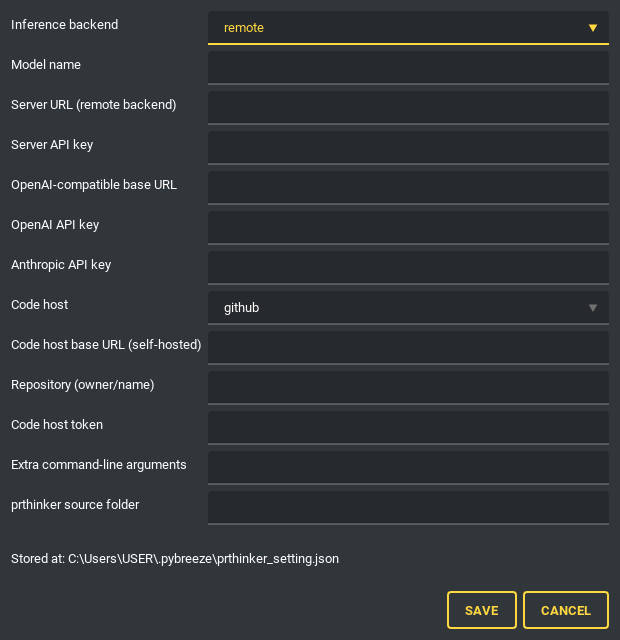
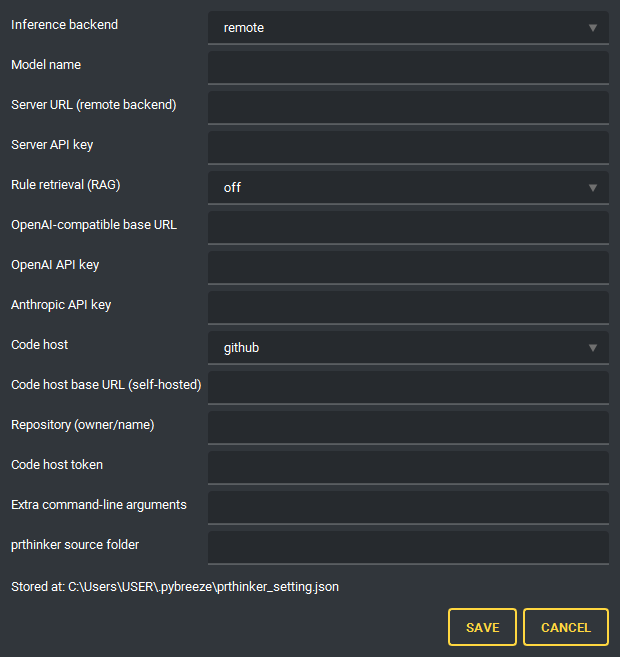
Turn prthinker's rule retrieval off unless the server is asked
prthinker retrieves rules locally by default, from an index that ships only with its repository, so every review from the prthinker PyBreeze installs stopped on ModuleNotFoundError. A rag setting, off or remote, is now always sent. With it the first real review ran end to end from PyBreeze's own menus, which closes progress.md #1.

diff --git a/pybreeze/extend/prthinker_extend/prthinker_setting.py b/pybreeze/extend/prthinker_extend/prthinker_setting.py
@@ -41,6 +41,20 @@ BACKENDS = (
 # 可選的程式碼託管平台 / The forges on offer
 PLATFORMS = ("github", "gitlab", "gitea")
 
+# 規則檢索（RAG）的做法：關掉，或交給伺服器的 /rag。prthinker 的本機索引只跟著它的
+# 原始碼庫，不在安裝的套件裡，所以這裡裝的 prthinker 沒辦法在本機檢索。
+# How rules are retrieved (RAG): not at all, or through the server's /rag.
+# prthinker's local index ships with its repository and not with its package, so
+# the prthinker installed from here cannot retrieve locally.
+RAG_MODES = ("off", "remote")
+
+# 每種做法交給子行程的環境變數；認不得的值一律當作關掉
+# The variables each way is given through; an unknown value counts as off
+RAG_ENVIRONMENT = {
+    "off": {"PRTHINKER_RAG_ENABLED": "false"},
+    "remote": {"PRTHINKER_REMOTE_RAG": "true"},
+}
+
 # 每個設定項對應的環境變數 / The environment variable each setting is given through
 SETTING_ENVIRONMENT = {
     "backend": "PRTHINKER_BACKEND",
@@ -73,6 +87,7 @@ DEFAULT_SETTING: Dict[str, str] = {
     "platform_base_url": "",
     "repository": "",
     "platform_token": "",
+    "rag": "off",
     "extra_arguments": "",
     "source_path": "",
 }
@@ -148,17 +163,24 @@ def environment_for(setting: Dict[str, str]) -> Dict[str, str]:
     把設定變成 prthinker 認得的環境變數
     Turn the settings into the environment variables prthinker reads.
 
-    空白的項目不放進去，prthinker 才用得到它自己的預設值。
-    A blank setting is left out, so prthinker keeps its own default for it.
+    空白的項目不放進去，prthinker 才用得到它自己的預設值。規則檢索例外：prthinker 預設
+    在本機檢索，而這裡裝的 prthinker 做不到，所以一定會明講要關掉或交給伺服器。
+    A blank setting is left out, so prthinker keeps its own default for it. Rule
+    retrieval is the exception: prthinker's default is to retrieve locally, which
+    the prthinker installed from here cannot do, so it is always told to go
+    without or to ask the server.
 
     :param setting: 目前的設定 / the settings in use
     :return: 要加進子行程環境的變數 / the variables to add to the child's environment
     """
-    return {
+    environment = {
         name: setting[key].strip()
         for key, name in SETTING_ENVIRONMENT.items()
         if setting.get(key, "").strip()
     }
+    rag_mode = setting.get("rag", "")
+    environment.update(RAG_ENVIRONMENT.get(rag_mode, RAG_ENVIRONMENT["off"]))
+    return environment
 
 
 def extra_arguments(setting: Dict[str, str]) -> List[str]:

diff --git a/pybreeze/pybreeze_ui/dialog/prthinker_setting_dialog.py b/pybreeze/pybreeze_ui/dialog/prthinker_setting_dialog.py
@@ -20,12 +20,15 @@ from PySide6.QtWidgets import (
 from je_editor import language_wrapper
 
 from pybreeze.extend.prthinker_extend.prthinker_setting import (
-    BACKENDS, PLATFORMS, load_setting, save_setting, setting_path
+    BACKENDS, PLATFORMS, RAG_MODES, load_setting, save_setting, setting_path
 )
 
 # 以圓點顯示的欄位 / The fields shown as dots
 SECRET_FIELDS = (
     "remote_api_key", "openai_api_key", "anthropic_api_key", "platform_token")
+
+# 從清單裡選的欄位，以及各自的選項 / The fields picked from a list, and each one's choices
+CHOICE_FIELDS = {"backend": BACKENDS, "rag": RAG_MODES, "platform": PLATFORMS}
 
 # 表格上的欄位順序，以及每一欄的說明用哪個語言鍵
 # The fields in the order they are shown, and the language key labelling each
@@ -34,6 +37,7 @@ FIELDS = (
     ("model_name", "prthinker_setting_model_name_label"),
     ("remote_url", "prthinker_setting_remote_url_label"),
     ("remote_api_key", "prthinker_setting_remote_api_key_label"),
+    ("rag", "prthinker_setting_rag_label"),
     ("openai_base_url", "prthinker_setting_openai_base_url_label"),
     ("openai_api_key", "prthinker_setting_openai_api_key_label"),
     ("anthropic_api_key", "prthinker_setting_anthropic_api_key_label"),
@@ -78,10 +82,8 @@ class PRThinkerSettingDialog(QDialog):
 
     def _editor_for(self, key: str):
         """依欄位種類給對應的輸入元件 / The right kind of editor for a field."""
-        if key == "backend":
-            editor = self._chooser(BACKENDS, self.setting.get(key, ""))
-        elif key == "platform":
-            editor = self._chooser(PLATFORMS, self.setting.get(key, ""))
+        if key in CHOICE_FIELDS:
+            editor = self._chooser(CHOICE_FIELDS[key], self.setting.get(key, ""))
         else:
             editor = QLineEdit(self.setting.get(key, ""))
             if key in SECRET_FIELDS:

diff --git a/test/test_utils/test_prthinker_setting.py b/test/test_utils/test_prthinker_setting.py
@@ -8,7 +8,7 @@ import pytest
 
 from pybreeze.extend.prthinker_extend import prthinker_setting
 from pybreeze.extend.prthinker_extend.prthinker_setting import (
-    DEFAULT_SETTING, INSTALL_EXTRAS, SECRET_SETTINGS, SETTING_ENVIRONMENT,
+    DEFAULT_SETTING, INSTALL_EXTRAS, RAG_MODES, SECRET_SETTINGS, SETTING_ENVIRONMENT,
     environment_for, extra_arguments, install_target, load_setting, loggable,
     review_file_arguments, review_pr_arguments, save_setting, split_arguments
 )
@@ -69,6 +69,29 @@ class TestTheEnvironmentGivenToTheChild:
     def test_every_setting_that_travels_has_a_variable(self):
         # Anything in the table has to name a setting that actually exists.
         assert set(SETTING_ENVIRONMENT) <= set(DEFAULT_SETTING)
+
+
+class TestRuleRetrieval:
+    # prthinker's local RAG index ships with its repository, not its package, so
+    # the prthinker PyBreeze installs can only do without it or ask the server.
+    def test_the_choices_are_off_and_the_server(self):
+        assert RAG_MODES == ("off", "remote")
+
+    def test_it_starts_off(self):
+        environment = environment_for(DEFAULT_SETTING)
+        assert environment["PRTHINKER_RAG_ENABLED"] == "false"
+        assert "PRTHINKER_REMOTE_RAG" not in environment
+
+    def test_remote_asks_the_server(self):
+        environment = environment_for({**DEFAULT_SETTING, "rag": "remote"})
+        assert environment["PRTHINKER_REMOTE_RAG"] == "true"
+        assert "PRTHINKER_RAG_ENABLED" not in environment
+
+    @pytest.mark.parametrize("stored", ["local", "", "REMOTE "])
+    def test_anything_else_counts_as_off(self, stored):
+        environment = environment_for({**DEFAULT_SETTING, "rag": stored})
+        assert environment["PRTHINKER_RAG_ENABLED"] == "false"
+        assert "PRTHINKER_REMOTE_RAG" not in environment
 
 
 class TestTheCommandsAreBuilt:

diff --git a/test/test_utils/test_prthinker_setting_dialog.py b/test/test_utils/test_prthinker_setting_dialog.py
@@ -11,7 +11,7 @@ from PySide6.QtWidgets import QApplication, QComboBox, QDialog, QLineEdit
 
 from pybreeze.extend.prthinker_extend import prthinker_setting
 from pybreeze.extend.prthinker_extend.prthinker_setting import (
-    BACKENDS, DEFAULT_SETTING, PLATFORMS, SETTING_FILE_NAME, save_setting
+    BACKENDS, DEFAULT_SETTING, PLATFORMS, RAG_MODES, SETTING_FILE_NAME, save_setting
 )
 from pybreeze.extend_multi_language.update_language_dict import update_language_dict
 from pybreeze.pybreeze_ui.dialog import prthinker_setting_dialog
@@ -64,6 +64,11 @@ class TestTheFormItBuilds:
     def test_the_platform_is_chosen_from_the_supported_list(self, dialog):
         editor = dialog.editors["platform"]
         assert [editor.itemText(i) for i in range(editor.count())] == list(PLATFORMS)
+
+    def test_rule_retrieval_is_chosen_from_the_supported_list(self, dialog):
+        editor = dialog.editors["rag"]
+        assert [editor.itemText(i) for i in range(editor.count())] == list(RAG_MODES)
+        assert editor.currentText() == DEFAULT_SETTING["rag"]
 
     def test_a_stored_choice_comes_back_selected(self, app, data_dir):
         save_setting({**DEFAULT_SETTING, "backend": "anthropic", "platform": "gitea"})

diff --git a/test/test_utils/test_prthinker_contract.py b/test/test_utils/test_prthinker_contract.py
@@ -94,9 +94,22 @@ def test_reviewing_a_file_is_accepted(tmp_path, closed_url, backend):
         "remote_url": closed_url,
         "openai_base_url": f"{closed_url}/v1",
         "openai_api_key": "not-a-real-key",
-        # prthinker's local RAG index ships only with its repository, not its
-        # package, so an installed prthinker needs it off (or remote).
-        "extra_arguments": "--no-rag --max-new-tokens 16",
+        "extra_arguments": "--max-new-tokens 16",
+    }
+    _assert_accepted(_run(review_file_arguments(str(source), setting), setting, tmp_path))
+
+
+def test_rule_retrieval_through_the_server_is_accepted(tmp_path, closed_url):
+    # An installed prthinker has no local RAG index: were the variable that
+    # asks for the server's /rag not read, it would stop on that import instead.
+    source = tmp_path / "main.py"
+    source.write_text("print(1)\n", encoding="utf-8")
+    setting = {
+        **DEFAULT_SETTING,
+        "backend": "remote",
+        "remote_url": closed_url,
+        "rag": "remote",
+        "extra_arguments": "--max-new-tokens 16",
     }
     _assert_accepted(_run(review_file_arguments(str(source), setting), setting, tmp_path))
 

diff --git a/pybreeze/extend_multi_language/extend_traditional_chinese.py b/pybreeze/extend_multi_language/extend_traditional_chinese.py
@@ -124,6 +124,7 @@ pybreeze_traditional_chinese_word_dict = {
     "prthinker_setting_model_name_label": "模型名稱",
     "prthinker_setting_remote_url_label": "伺服器網址（remote 後端）",
     "prthinker_setting_remote_api_key_label": "伺服器 API 金鑰",
+    "prthinker_setting_rag_label": "規則檢索（RAG）",
     "prthinker_setting_openai_base_url_label": "OpenAI 相容的 base URL",
     "prthinker_setting_openai_api_key_label": "OpenAI API 金鑰",
     "prthinker_setting_anthropic_api_key_label": "Anthropic API 金鑰",

diff --git a/pybreeze/extend_multi_language/extend_english.py b/pybreeze/extend_multi_language/extend_english.py
@@ -124,6 +124,7 @@ pybreeze_english_word_dict = {
     "prthinker_setting_model_name_label": "Model name",
     "prthinker_setting_remote_url_label": "Server URL (remote backend)",
     "prthinker_setting_remote_api_key_label": "Server API key",
+    "prthinker_setting_rag_label": "Rule retrieval (RAG)",
     "prthinker_setting_openai_base_url_label": "OpenAI-compatible base URL",
     "prthinker_setting_openai_api_key_label": "OpenAI API key",
     "prthinker_setting_anthropic_api_key_label": "Anthropic API key",

diff --git a/docs/updates/2026-09.md b/docs/updates/2026-09.md
@@ -141,3 +141,12 @@ Index and query commands: [README.md](README.md). New entries go at the end.
 - **Result / numbers**: unit tests 1054 → 1056 passed, 4 skipped (local Python 3.11 venv). After the fix, the PyBreeze-driven prthinker review showed its whole traceback and `Task exit with code 1` (the review itself failed: see the next prthinker entry).
 - **Files**: `pybreeze/pybreeze_ui/show_code_window/code_window.py`, `pybreeze/extend/process_executor/process_executor_utils.py`, `pybreeze/pybreeze_ui/menu/plugin_menu/build_run_with_menu.py`, `test/test_utils/test_run_output.py`, `architecture.md` §7, `architecture_explore.md` §4.2, §4.4, §16, §18.
 - **Open items**: none.
+
+## U-20260923-01 · 2026-09-23 · First real prthinker review run from PyBreeze · #done #prthinker
+
+- **What**: `progress.md` #1 (workspace X-8). The prthinker integration had never run a real review, and the reason given, that PyBreeze's venv is Python 3.11 while prthinker needs 3.12 or newer, did not hold: the review and the install both run with the interpreter chosen in the IDE, not PyBreeze's own. The run was driven through PyBreeze's own actions, headless: PyBreeze from a fresh Python 3.13 venv built from `requirements.txt` (je_editor 1.0.25, PySide6 6.11.1) with this checkout on `PYTHONPATH`; a second, empty 3.13 venv set as the IDE's interpreter; `Install ▸ Automation ▸ Install prthinker` pip-installed `<prthinker checkout>[runner]` into it (prthinker `dev` at `14a3d42`); `Code Review ▸ Review the current file` then reviewed a copy of `prthinker_process.py`. Settings: backend `claude-cli` (the machine's `claude` 2.1.278, so no API key), extra arguments `--claude-cli-model haiku --output-dir C:\...\out`, everything else default.
+- **Found on the way**: U-20260922-17 (empty automation submenus) and U-20260922-18 (run windows losing their output). And with the defaults the review could not run at all: prthinker retrieves rules locally unless told otherwise, and that index (`codes/`) lives only in its repository; the package excludes it, so every review from an installed prthinker died on `ModuleNotFoundError: No module named 'codes'`. The contract test (U-20260922-16) had passed `--no-rag` by hand for that reason, which hid it.
+- **Fix**: a `rag` setting, `off` (default) or `remote` (`RAG_MODES`), always sent: `off` as `PRTHINKER_RAG_ENABLED=false`, `remote` as `PRTHINKER_REMOTE_RAG=true`, which asks the server's `/rag`. An unknown stored value counts as `off`. The settings dialog picks it from a list; choice fields now come from one table (`CHOICE_FIELDS`) instead of an `if` per field. The contract test no longer passes `--no-rag`, so the default is what it checks, and a new case checks `remote`. Renaming either variable fails three contract cases (checked).
+- **Result / numbers**: review finished in 136 s with `Task exit with code 0`: five steps (`first_summary`, `first_code_review`, `linter`, `code_smell`, `total_summary`), their log lines streaming into the run window, the summary printed at the end, and five `*_result.md` files written to the backslashed `--output-dir`. Unit tests 1056 → 1063 passed, 5 skipped (local 3.11 venv, where the contract tests skip); contract and settings tests 40 passed against the prthinker the Install menu put in the 3.13 venv. `ruff check` clean. `images/prthinker_setting.png` re-rendered from the dialog.
+- **Files**: `pybreeze/extend/prthinker_extend/prthinker_setting.py`, `pybreeze/pybreeze_ui/dialog/prthinker_setting_dialog.py`, `pybreeze/extend_multi_language/{extend_english,extend_traditional_chinese}.py`, `test/test_utils/{test_prthinker_setting,test_prthinker_setting_dialog,test_prthinker_contract}.py`, `images/prthinker_setting.png`, `README.md`, `architecture_explore.md` §14, §18, `progress.md`.
+- **Open items**: none here. The prthinker side of workspace X-8 is closed in the root `progress.md`.

diff --git a/README.md b/README.md
@@ -173,7 +173,7 @@ Run the [prthinker](https://github.com/JE-Chen/Code-Review-Framework-Combining-L
 
 ![prthinker settings](images/prthinker_setting.png)
 
-One settings form holds the inference backend (`remote`, `local`, OpenAI-compatible, Anthropic, Gemini, Cohere, Mistral, `claude-cli`, `codex-cli`), the code host (GitHub / GitLab / Gitea) and the repository. **Keys and tokens are handed to the review as environment variables, never on a command line** where a process list would show them — and they are masked in logs.
+One settings form holds the inference backend (`remote`, `local`, OpenAI-compatible, Anthropic, Gemini, Cohere, Mistral, `claude-cli`, `codex-cli`), the code host (GitHub / GitLab / Gitea) and the repository. **Keys and tokens are handed to the review as environment variables, never on a command line** where a process list would show them — and they are masked in logs. Rule retrieval (RAG) is `off` unless set to `remote`, which asks the prthinker server's `/rag`: prthinker's local rule index ships with its repository, not with the package installed from it. The review runs with the interpreter chosen in `Python Env`, so PyBreeze itself can stay on an older Python than the 3.12 prthinker needs.
 
 ### CoT Prompt Editor
 

diff --git a/progress.md b/progress.md
@@ -2,8 +2,7 @@
 
 Outstanding work only. When an item is done, delete it in the same commit and add a `#done` entry to `docs/updates/` (format and query commands: `docs/updates/README.md`). No finished items, no history, no rules (rules live in `CLAUDE.md`).
 Item numbers (`#n`) are never reused. Tags: [DECIDE] needs the owner's decision, [BLOCKED] waits on something else, [UNVERIFIED] observed but not confirmed.
-Cross-repo and workspace items live in `D:\Codes\progress.md` (relevant here: X-1, X-8, X-13, X-17).
+Cross-repo and workspace items live in `D:\Codes\progress.md` (relevant here: X-1, X-13, X-17).
 
 ## Open
 
-- **#1** [BLOCKED] The prthinker integration (menu, settings, install; commit `99ef96f`) has never run a real review: this machine's PyBreeze venv is Python 3.11 and prthinker needs 3.12 or newer. Install prthinker with a 3.12+ interpreter and run one review (moved from JEditor's `PROGRESS.md`; workspace X-8).

diff --git a/docs/updates/README.md b/docs/updates/README.md
@@ -58,6 +58,7 @@ In the same commit: delete the item from `progress.md`, add a `#done` entry here
 
 | ID | Date | Title | Tags | Batch |
 |---|---|---|---|---|
+| U-20260923-01 | 2026-09-23 | First real prthinker review run from PyBreeze | #done #prthinker | [2026-09](2026-09.md) |
 | U-20260922-18 | 2026-09-22 | Run windows lost their output and exit line | #incident #process-executor | [2026-09](2026-09.md) |
 | U-20260922-17 | 2026-09-22 | Automation submenus came up empty | #incident #menus | [2026-09](2026-09.md) |
 | U-20260922-16 | 2026-09-22 | Contract test for the prthinker command line | #done #prthinker #ci | [2026-09](2026-09.md) |
@@ -81,4 +82,4 @@ In the same commit: delete the item from `progress.md`, add a `#done` entry here
 
 | File | Period | Entries |
 |---|---|---:|
-| [2026-09.md](2026-09.md) | 2026-09 | 18 |
+| [2026-09.md](2026-09.md) | 2026-09 | 19 |
